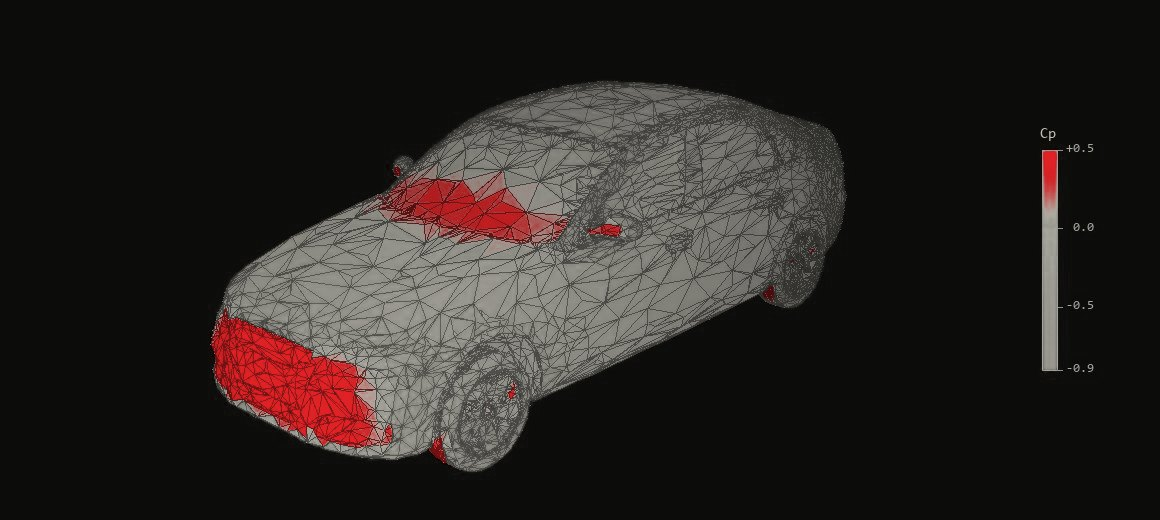
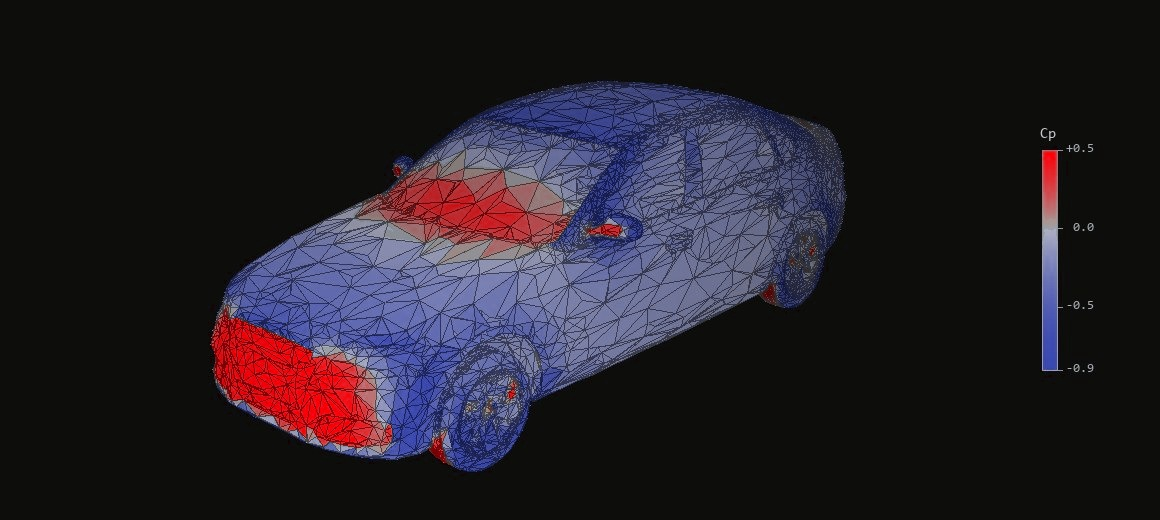
Hints of the reference navy: the boulder, the Cp scale's suction end, the pipeline's running dashes, the focus ring

Changed region(s): [[0.1862, 0.1538, 0.7448, 0.9231], [0.9, 0.3692, 0.931, 0.7077], [0.9, 0.2769, 0.931, 0.3077]]

diff --git a/midnight-theme.css b/midnight-theme.css
@@ -47,6 +47,8 @@
   --gold-ink:  #FFF6EE;
   --crimson:      #E8403D;
   --crimson-soft: #F25E57;
+  /* the reference navy (#1B1E4A) lifted to read on black: used as a hint only, never a fill */
+  --blue:         #6872D6;
 
   /* the old interactive tint retires into stone */
   --teal:      var(--stone);
@@ -58,6 +60,8 @@
   --mesh-line-rgb:   175,174,162;
   --mesh-accent-rgb: 226,44,44;
   --mesh-ink-rgb:    226,224,212;
+  /* the reference picture's navy (#1B1E4A), lifted so a wireframe reads on black: the second object colour */
+  --mesh-blue-rgb:   104,114,214;
   --fluid-line-rgb:   175,174,162;
   --fluid-accent-rgb: 210,19,25;
 
@@ -65,7 +69,7 @@
 }
 
 ::selection { background: var(--crimson-fill); color: #fff; }
-:focus-visible { outline-color: var(--gold); }
+:focus-visible { outline-color: var(--blue); }
 
 /* ---------- Hero art: the original plate, re-inked ---------- */
 .hero-art { background: var(--bg) url("assets/hero-bg-midnight.jpg?v=4") center / cover no-repeat; }
@@ -201,7 +205,7 @@
 .flowline { grid-column: 2; grid-row: 1 / -1; justify-self: center; display: block; width: min(100%, 520px); height: auto; overflow: visible; }
 /* the line itself: a faint dotted path, with dashes running along it the way the air runs in the footer */
 .flowline__path { fill: none; stroke: var(--stone); stroke-opacity: 0.8; stroke-width: 0.9; stroke-dasharray: 0.5 2.9; stroke-linecap: round; }
-.flowline__run { fill: none; stroke: var(--stone-hi); stroke-width: 1; stroke-linecap: round; stroke-dasharray: 15 49; animation: flowline-run 2.6s linear infinite; }
+.flowline__run { fill: none; stroke: var(--blue); stroke-width: 1; stroke-linecap: round; stroke-dasharray: 15 49; animation: flowline-run 2.6s linear infinite; }
 .flowline__path--retry { stroke: var(--gold); stroke-opacity: 0.95; }
 .flowline__run--retry { stroke: var(--gold); stroke-dasharray: 9 55; animation-duration: 3.4s; }
 @keyframes flowline-run { to { stroke-dashoffset: -64; } }

diff --git a/pages.js b/pages.js
@@ -226,14 +226,15 @@
        artery, the gaming selection boxes, both ground grids, strokes with
        this value, so one early read turns the whole industries section teal.
        That is exactly what happened on mobile while desktop looked correct. */
-    let GOLD, TEAL, INK, LINE3, ACC3;
+    let GOLD, TEAL, INK, BLUE, LINE3, ACC3;
     let MODELS = null;
     const readPalette = () => {
       const g = cssRGB("--mesh-accent-rgb", "255,186,0");
       const t = cssRGB("--mesh-line-rgb", "15,182,172");
       const k = cssRGB("--mesh-ink-rgb", "236,234,229");
-      const changed = g !== GOLD || t !== TEAL || k !== INK;
-      GOLD = g; TEAL = t; INK = k;
+      const b = cssRGB("--mesh-blue-rgb", "96,168,206");
+      const changed = g !== GOLD || t !== TEAL || k !== INK || b !== BLUE;
+      GOLD = g; TEAL = t; INK = k; BLUE = b;
       LINE3 = TEAL.split(",").map(Number); ACC3 = GOLD.split(",").map(Number);
       // the procedural specimens bake the colour into their groups at build
       // time, so drop them and let the next use rebuild against the new value
@@ -994,9 +995,10 @@
       /* the scene assets carry a colour per object, baked when they were
          built (steel, amber, sky, green). The midnight theme has three
          colours, so each baked colour is mapped to its nearest role here:
-         the hero object takes the accent, the rest are light or mid stone. */
+         the hero object takes the accent, a sky-blue object takes the theme's
+         blue, the rest are light or mid stone. */
       const themed = (c) => ({
-        "109,139,175": "196,194,182", "96,168,206": "196,194,182",
+        "109,139,175": "196,194,182", "96,168,206": BLUE,
         "236,168,84": GOLD, "228,152,84": GOLD, "126,200,140": "128,127,118",
       })[c] || c;
       if (e.groups) { for (const gr of e.groups) strokeRange(gr.e0, gr.e1, themed(gr.col)); }

diff --git a/index.html b/index.html
@@ -32,7 +32,7 @@
   <link rel="stylesheet" href="styles.css?v=67" />
   <link rel="stylesheet" href="orange-theme.css?v=36" />
   <link rel="stylesheet" href="refit.css?v=33" />
-  <link rel="stylesheet" href="midnight-theme.css?v=16" />
+  <link rel="stylesheet" href="midnight-theme.css?v=18" />
 </head>
 <body>
   <div class="hero-art" aria-hidden="true"></div>
@@ -357,7 +357,7 @@
               <img src="assets/auto-zoom-midnight.jpg?v=1" alt="" />
             </figure>
             <figure class="xsec__panel">
-              <img src="assets/auto-cp-midnight.jpg?v=1" alt="" />
+              <img src="assets/auto-cp-midnight.jpg?v=2" alt="" />
             </figure>
           </div>
         </div>
@@ -505,7 +505,7 @@
   <script src="https://cdnjs.cloudflare.com/ajax/libs/three.js/r128/three.min.js" defer></script>
   <script src="https://cdnjs.cloudflare.com/ajax/libs/pako/2.1.0/pako.min.js" defer></script>
   <script src="airfoil.js?v=15" defer></script>
-  <script src="pages.js?v=105" defer></script>
+  <script src="pages.js?v=106" defer></script>
   <script src="waitlist.js?v=12" defer></script>
   <script src="ascii.js?v=15" defer></script>
 </body>

diff --git a/contact.html b/contact.html
@@ -32,7 +32,7 @@
   <link rel="stylesheet" href="styles.css?v=67" />
   <link rel="stylesheet" href="orange-theme.css?v=36" />
   <link rel="stylesheet" href="refit.css?v=33" />
-  <link rel="stylesheet" href="midnight-theme.css?v=16" />
+  <link rel="stylesheet" href="midnight-theme.css?v=18" />
 </head>
 <body>
   <div class="page-bg" aria-hidden="true"></div>
@@ -99,7 +99,7 @@
   </footer>
 
   <script src="https://cdn.jsdelivr.net/npm/lenis@1.1.20/dist/lenis.min.js" defer></script>
-  <script src="pages.js?v=105" defer></script>
+  <script src="pages.js?v=106" defer></script>
   <script src="waitlist.js?v=12" defer></script>
   <script src="ascii.js?v=15" defer></script>
 </body>
